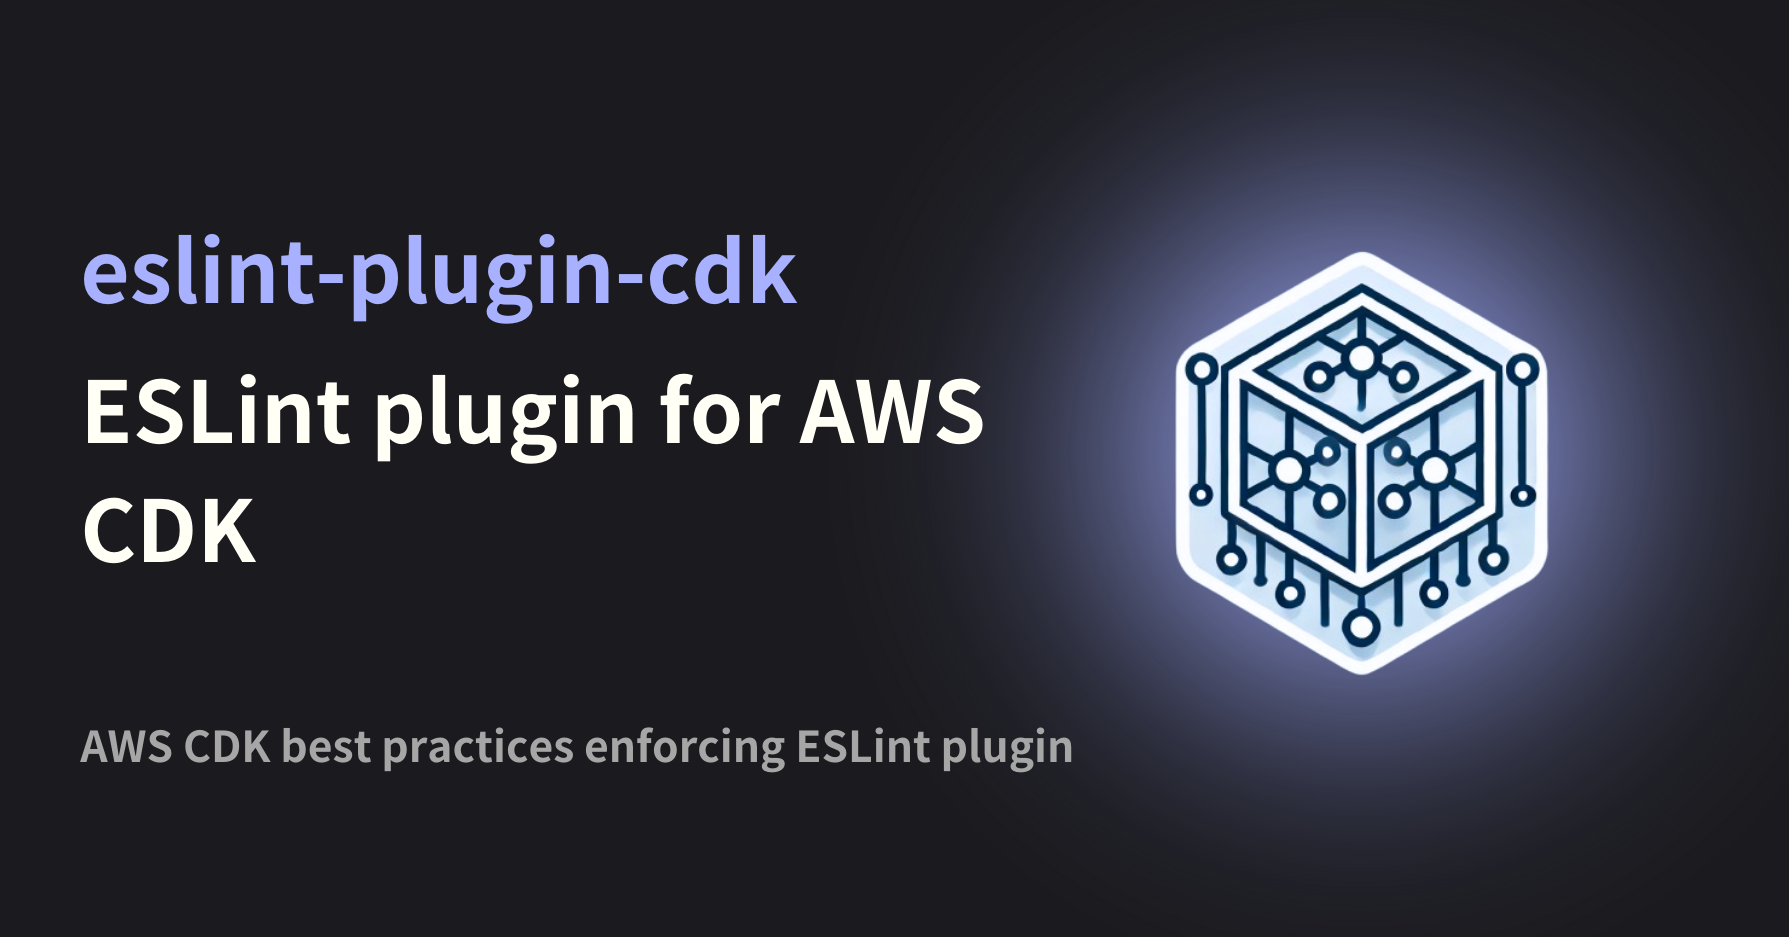
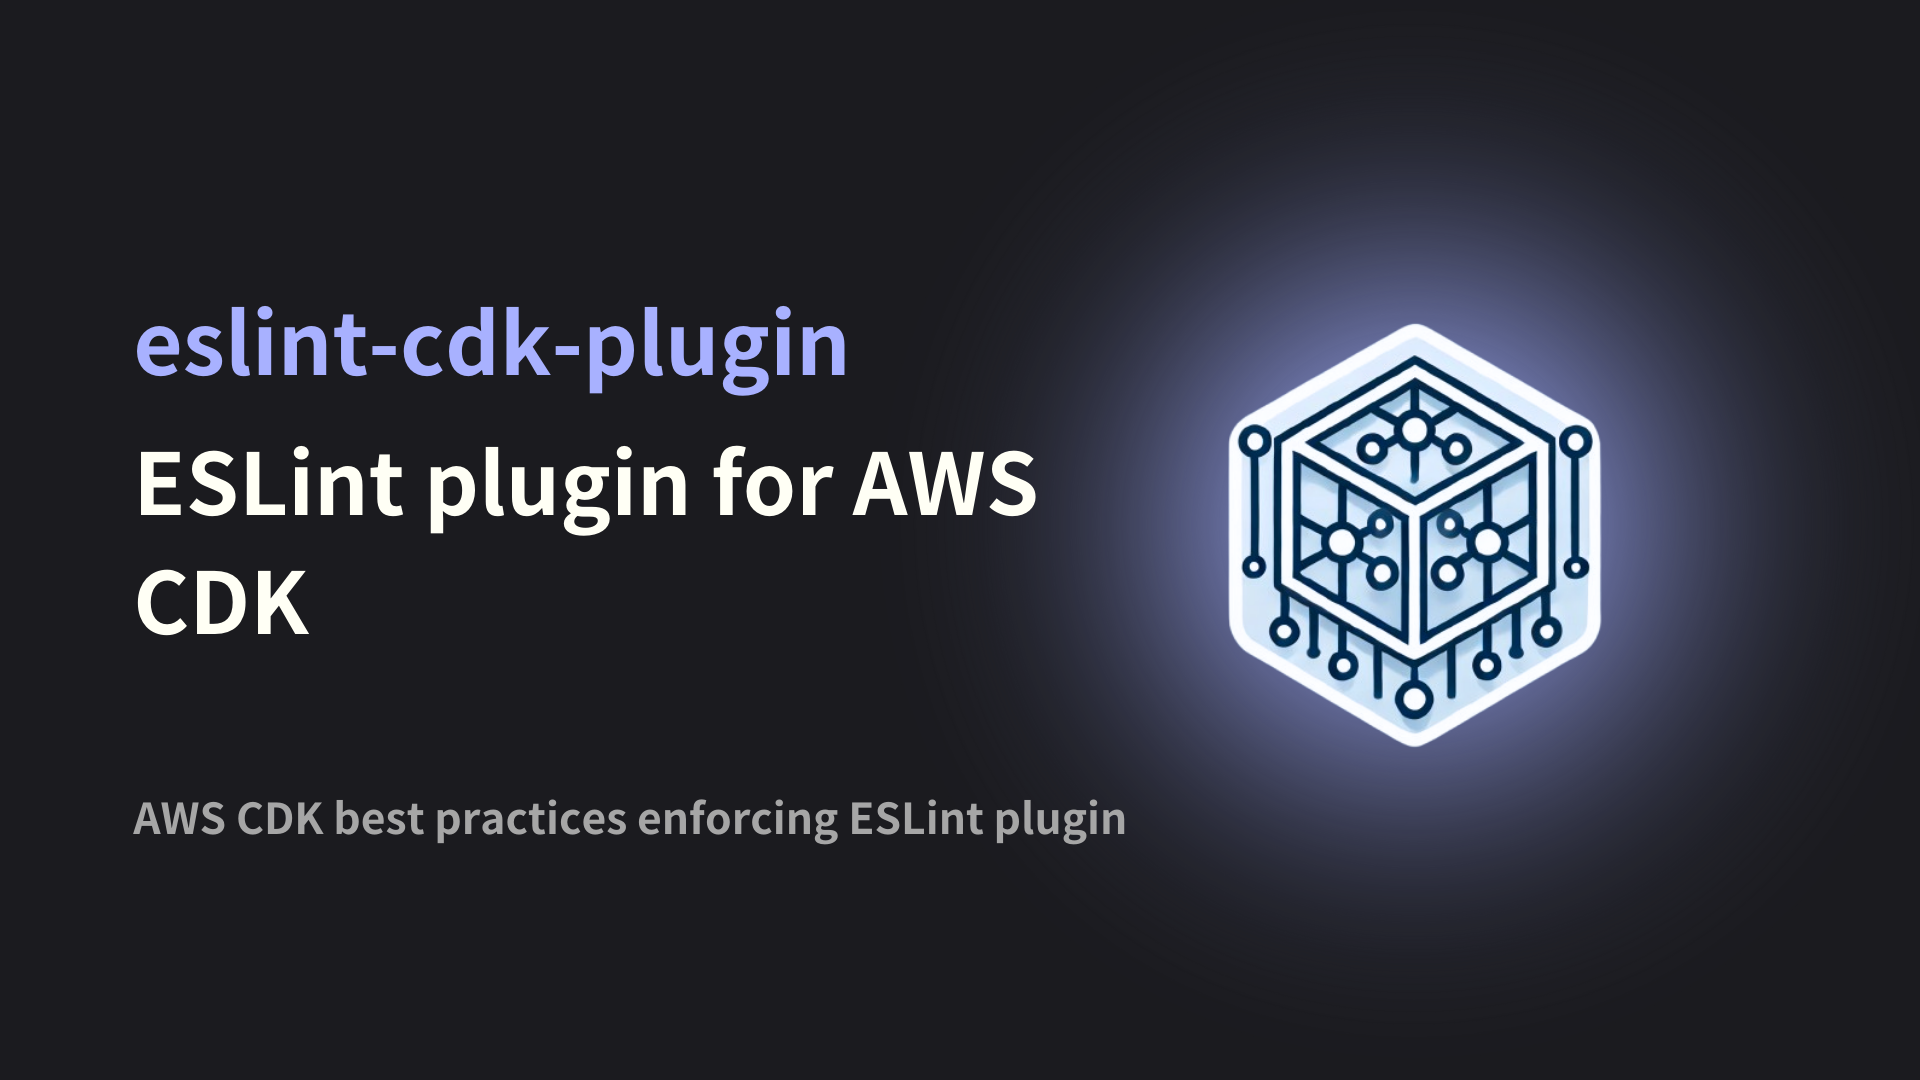
chore: rename library (#47)
* chore: rename library

* chore: update url

* chore: update ogp

* chore: update name

* chore: update ci.yml

* chore: change github url

diff --git a/docs/getting-started/index.md b/docs/getting-started/index.md
@@ -1,9 +1,9 @@
 ---
-title: eslint-plugin-cdk - Getting Started
+title: eslint-cdk-plugin - Getting Started
 titleTemplate: ":title"
 ---
 
-# eslint-plugin-cdk
+# eslint-cdk-plugin
 
 ## Install
 
@@ -12,15 +12,15 @@ Just run this:
 ::: code-group
 
 ```sh [npm]
-npm install -D @nigg/eslint-plugin-cdk
+npm install -D eslint-cdk-plugin
 ```
 
 ```sh [yarn]
-yarn add -D @nigg/eslint-plugin-cdk
+yarn add -D eslint-cdk-plugin
 ```
 
 ```sh [pnpm]
-pnpm install -D @nigg/eslint-plugin-cdk
+pnpm install -D eslint-cdk-plugin
 ```
 
 :::
@@ -33,14 +33,14 @@ Note: This plugin only supports flatConfig
 
 ```js
 // eslint.config.mjs
-import eslintPluginCdk from "@nigg/eslint-plugin-cdk";
+import eslintCdkPlugin from "eslint-cdk-plugin";
 export default [
   {
     plugins: {
-      cdk: eslintPluginCdk,
+      cdk: eslintCdkPlugin,
     },
     rules: {
-      ...eslintPluginCdk.configs.recommended.rules,
+      ...eslintCdkPlugin.configs.recommended.rules,
     },
   },
 ];
@@ -52,14 +52,14 @@ If you want to customize the rules, write eslint.config.mjs as follows:
 
 ```js
 // eslint.config.mjs
-import eslintPluginCdk from "@nigg/eslint-plugin-cdk";
+import eslintCdkPlugin from "eslint-cdk-plugin";
 export default [
   {
     plugins: {
-      cdk: eslintPluginCdk,
+      cdk: eslintCdkPlugin,
     },
     rules: {
-      ...eslintPluginCdk.configs.recommended.rules,
+      ...eslintCdkPlugin.configs.recommended.rules,
       "cdk/no-public-class-fields": "warn",
     },
   },

diff --git a/docs/ja/getting-started/index.md b/docs/ja/getting-started/index.md
@@ -1,9 +1,9 @@
 ---
-title: eslint-plugin-cdk - Getting Started
+title: eslint-cdk-plugin - Getting Started
 titleTemplate: ":title"
 ---
 
-# eslint-plugin-cdk
+# eslint-cdk-plugin
 
 ## インストール
 
@@ -12,15 +12,15 @@ titleTemplate: ":title"
 ::: code-group
 
 ```sh [npm]
-npm install -D @nigg/eslint-plugin-cdk
+npm install -D eslint-cdk-plugin
 ```
 
 ```sh [yarn]
-yarn add -D @nigg/eslint-plugin-cdk
+yarn add -D eslint-cdk-plugin
 ```
 
 ```sh [pnpm]
-pnpm install -D @nigg/eslint-plugin-cdk
+pnpm install -D eslint-cdk-plugin
 ```
 
 :::
@@ -33,14 +33,14 @@ eslint.config.mjs を以下のように記述します。
 
 ```js
 // eslint.config.mjs
-import eslintPluginCdk from "@nigg/eslint-plugin-cdk";
+import eslintCdkPlugin from "eslint-cdk-plugin";
 export default [
   {
     plugins: {
-      cdk: eslintPluginCdk,
+      cdk: eslintCdkPlugin,
     },
     rules: {
-      ...eslintPluginCdk.configs.recommended.rules,
+      ...eslintCdkPlugin.configs.recommended.rules,
     },
   },
 ];
@@ -52,14 +52,14 @@ export default [
 
 ```js
 // eslint.config.mjs
-import eslintPluginCdk from "@nigg/eslint-plugin-cdk";
+import eslintCdkPlugin from "eslint-cdk-plugin";
 export default [
   {
     plugins: {
-      cdk: eslintPluginCdk,
+      cdk: eslintCdkPlugin,
     },
     rules: {
-      ...eslintPluginCdk.configs.recommended.rules,
+      ...eslintCdkPlugin.configs.recommended.rules,
       "cdk/no-public-class-fields": "warn",
     },
   },

diff --git a/README.md b/README.md
@@ -1,4 +1,4 @@
-# eslint-plugin-cdk
+# eslint-cdk-plugin
 
 ESLint plugin for [AWS CDK](https://github.com/aws/aws-cdk).
 
@@ -6,13 +6,13 @@ ESLint plugin for [AWS CDK](https://github.com/aws/aws-cdk).
 
 ```bash
 # npm
-npm install -D @nigg/eslint-plugin-cdk
+npm install -D eslint-cdk-plugin
 
 # yarn
-yarn add -D @nigg/eslint-plugin-cdk
+yarn add -D eslint-cdk-plugin
 
 # pnpm
-pnpm install -D @nigg/eslint-plugin-cdk
+pnpm install -D eslint-cdk-plugin
 ```
 
 ## Usage
@@ -21,17 +21,17 @@ pnpm install -D @nigg/eslint-plugin-cdk
 
 ```js
 // eslint.config.mjs
-import eslintPluginCdk from "@nigg/eslint-plugin-cdk";
+import eslintCdkPlugin from "eslint-cdk-plugin";
 export default [
   {
     plugins: {
-      cdk: eslintPluginCdk,
+      cdk: eslintCdkPlugin,
     },
     rules: {
-      ...eslintPluginCdk.configs.recommended.rules,
+      ...eslintCdkPlugin.configs.recommended.rules,
     },
   },
 ];
 ```
 
-### For more detailed documentation, see [docs for eslint-plugin-cdk](https://eslint-plugin-cdk.dev/)
+### For more detailed documentation, see [docs for eslint-cdk-plugin](https://eslint-cdk-plugin.dev/)

diff --git a/docs/ja/index.md b/docs/ja/index.md
@@ -1,20 +1,19 @@
 ---
-# https://vitepress.dev/reference/default-theme-home-page
 layout: home
-title: eslint-plugin-cdk - ESLint plugin for AWS CDK
+title: eslint-cdk-plugin - ESLint plugin for AWS CDK
 titleTemplate: ":title"
 hero:
-  name: "eslint-plugin-cdk"
+  name: "eslint-cdk-plugin"
   text: "ESLint plugin for AWS CDK"
   tagline: AWS CDK のベストプラクティスを強制する ESLint プラグイン
-  image: /img/eslint-plugin-cdk.png
+  image: /img/logo.png
   actions:
     - theme: brand
       text: Getting Started
       link: /ja/getting-started/
     - theme: alt
       text: View on GitHub
-      link: https://github.com/ren-yamanashi/eslint-plugin-cdk
+      link: https://github.com/ren-yamanashi/eslint-cdk-plugin
 features:
   - title: Extensive Rules
     details: AWS CDK 開発のための広範なルールを提供します。

diff --git a/docs/ja/rules/index.md b/docs/ja/rules/index.md
@@ -1,5 +1,5 @@
 ---
-title: eslint-plugin-cdk - Rules
+title: eslint-cdk-plugin - Rules
 titleTemplate: ":title"
 ---
 
@@ -23,11 +23,11 @@ titleTemplate: ":title"
 
 ```js
 // eslint.config.mjs
-import eslintPluginCdk from "@nigg/eslint-plugin-cdk";
+import eslintCdkPlugin from "eslint-cdk-plugin";
 export default [
   {
     plugins: {
-      cdk: eslintPluginCdk,
+      cdk: eslintCdkPlugin,
     },
     rules: {
       "cdk/no-class-in-interface": "error",
@@ -38,7 +38,7 @@ export default [
       "cdk/no-mutable-public-fields": "warn",
       "cdk/no-mutable-props-interface": "warn",
       // NOTE: 上記のルールは、以下のように`recommended`を使用した場合と同じ内容です
-      // ...eslintPluginCdk.configs.recommended.rules,
+      // ...eslintCdkPlugin.configs.recommended.rules,
     },
   },
 ];

diff --git a/docs/rules/index.md b/docs/rules/index.md
@@ -1,5 +1,5 @@
 ---
-title: eslint-plugin-cdk - Rules
+title: eslint-cdk-plugin - Rules
 titleTemplate: ":title"
 ---
 
@@ -23,11 +23,11 @@ When using `recommended`, the actual content set is as follows.
 
 ```js
 // eslint.config.mjs
-import eslintPluginCdk from "@nigg/eslint-plugin-cdk";
+import eslintCdkPlugin from "eslint-cdk-plugin";
 export default [
   {
     plugins: {
-      cdk: eslintPluginCdk,
+      cdk: eslintCdkPlugin,
     },
     rules: {
       "cdk/no-class-in-interface": "error",
@@ -38,7 +38,7 @@ export default [
       "cdk/no-mutable-public-fields": "warn",
       "cdk/no-mutable-props-interface": "warn",
       // NOTE: The above rules are the same as when using `recommended`
-      // ...eslintPluginCdk.configs.recommended.rules,
+      // ...eslintCdkPlugin.configs.recommended.rules,
     },
   },
 ];

diff --git a/docs/index.md b/docs/index.md
@@ -1,20 +1,20 @@
 ---
 # https://vitepress.dev/reference/default-theme-home-page
 layout: home
-title: eslint-plugin-cdk - ESLint plugin for AWS CDK
+title: eslint-cdk-plugin - ESLint plugin for AWS CDK
 titleTemplate: ":title"
 hero:
-  name: "eslint-plugin-cdk"
+  name: "eslint-cdk-plugin"
   text: "ESLint plugin for AWS CDK"
   tagline: AWS CDK best practices enforcing ESLint plugin
-  image: /img/eslint-plugin-cdk.png
+  image: /img/logo.png
   actions:
     - theme: brand
       text: Getting Started
       link: /getting-started/
     - theme: alt
       text: View on GitHub
-      link: https://github.com/ren-yamanashi/eslint-plugin-cdk
+      link: https://github.com/ren-yamanashi/eslint-cdk-plugin
 features:
   - title: Extensive Rules
     details: Extensive rules for AWS CDK development.

diff --git a/docs/ja/getting-started/example.md b/docs/ja/getting-started/example.md
@@ -1,5 +1,5 @@
 ---
-title: eslint-plugin-cdk - Example for eslint.config.mjs
+title: eslint-cdk-plugin - Example for eslint.config.mjs
 titleTemplate: ":title"
 ---
 
@@ -11,7 +11,7 @@ titleTemplate: ":title"
 
 ```js
 import eslint from "@eslint/js";
-import cdkPlugin from "@nigg/eslint-plugin-cdk";
+import eslintCdkPlugin from "eslint-cdk-plugin";
 import tsEslint from "typescript-eslint";
 
 export default tsEslint.config(
@@ -29,7 +29,7 @@ export default tsEslint.config(
       },
     },
     plugins: {
-      cdk: cdkPlugin,
+      cdk: eslintCdkPlugin,
     },
     rules: {
       ...cdkPlugin.configs.recommended.rules,

diff --git a/CONGRIBUTING.md b/CONGRIBUTING.md
@@ -1,6 +1,6 @@
-# Contributing to eslint-plugin-cdk
+# Contributing to eslint-cdk-plugin
 
-Thank you for your interest in contributing to eslint-plugin-cdk!  
+Thank you for your interest in contributing to eslint-cdk-plugin!  
 This document provides guidelines and steps for contributing.
 
 ## Code of Conduct
@@ -46,7 +46,7 @@ When proposing a new rule:
 
 ```bash
 # Clone your fork
-https://github.com/ren-yamanashi/eslint-plugin-cdk.git
+https://github.com/ren-yamanashi/eslint-cdk-plugin.git
 
 # Install dependencies
 pnpm install

diff --git a/docs/rules/no-import-private.md b/docs/rules/no-import-private.md
@@ -1,5 +1,5 @@
 ---
-title: eslint-plugin-cdk - no-import-private
+title: eslint-cdk-plugin - no-import-private
 titleTemplate: ":title"
 next: false
 ---
@@ -13,11 +13,11 @@ When setting it, you need to write the following:
 
 ```js
 // eslint.config.mjs
-import eslintPluginCdk from "@nigg/eslint-plugin-cdk";
+import eslintCdkPlugin from "eslint-cdk-plugin";
 export default [
   {
     plugins: {
-      cdk: eslintPluginCdk,
+      cdk: eslintCdkPlugin,
     },
     rules: {
       ...cdkPlugin.configs.recommended.rules,

diff --git a/docs/ja/rules/no-import-private.md b/docs/ja/rules/no-import-private.md
@@ -1,5 +1,5 @@
 ---
-title: eslint-plugin-cdk - no-import-private
+title: eslint-cdk-plugin - no-import-private
 titleTemplate: ":title"
 next: false
 ---
@@ -13,11 +13,11 @@ next: false
 
 ```js
 // eslint.config.mjs
-import eslintPluginCdk from "@nigg/eslint-plugin-cdk";
+import eslintCdkPlugin from "eslint-cdk-plugin";
 export default [
   {
     plugins: {
-      cdk: eslintPluginCdk,
+      cdk: eslintCdkPlugin,
     },
     rules: {
       ...cdkPlugin.configs.recommended.rules,

diff --git a/docs/getting-started/example.md b/docs/getting-started/example.md
@@ -1,5 +1,5 @@
 ---
-title: eslint-plugin-cdk - Example for eslint.config.mjs
+title: eslint-cdk-plugin - Example for eslint.config.mjs
 titleTemplate: ":title"
 ---
 
@@ -11,7 +11,7 @@ Note: We recommend using typescript-eslint together.
 
 ```js
 import eslint from "@eslint/js";
-import cdkPlugin from "@nigg/eslint-plugin-cdk";
+import cdkPlugin from "eslint-cdk-plugin";
 import tsEslint from "typescript-eslint";
 
 export default tsEslint.config(
